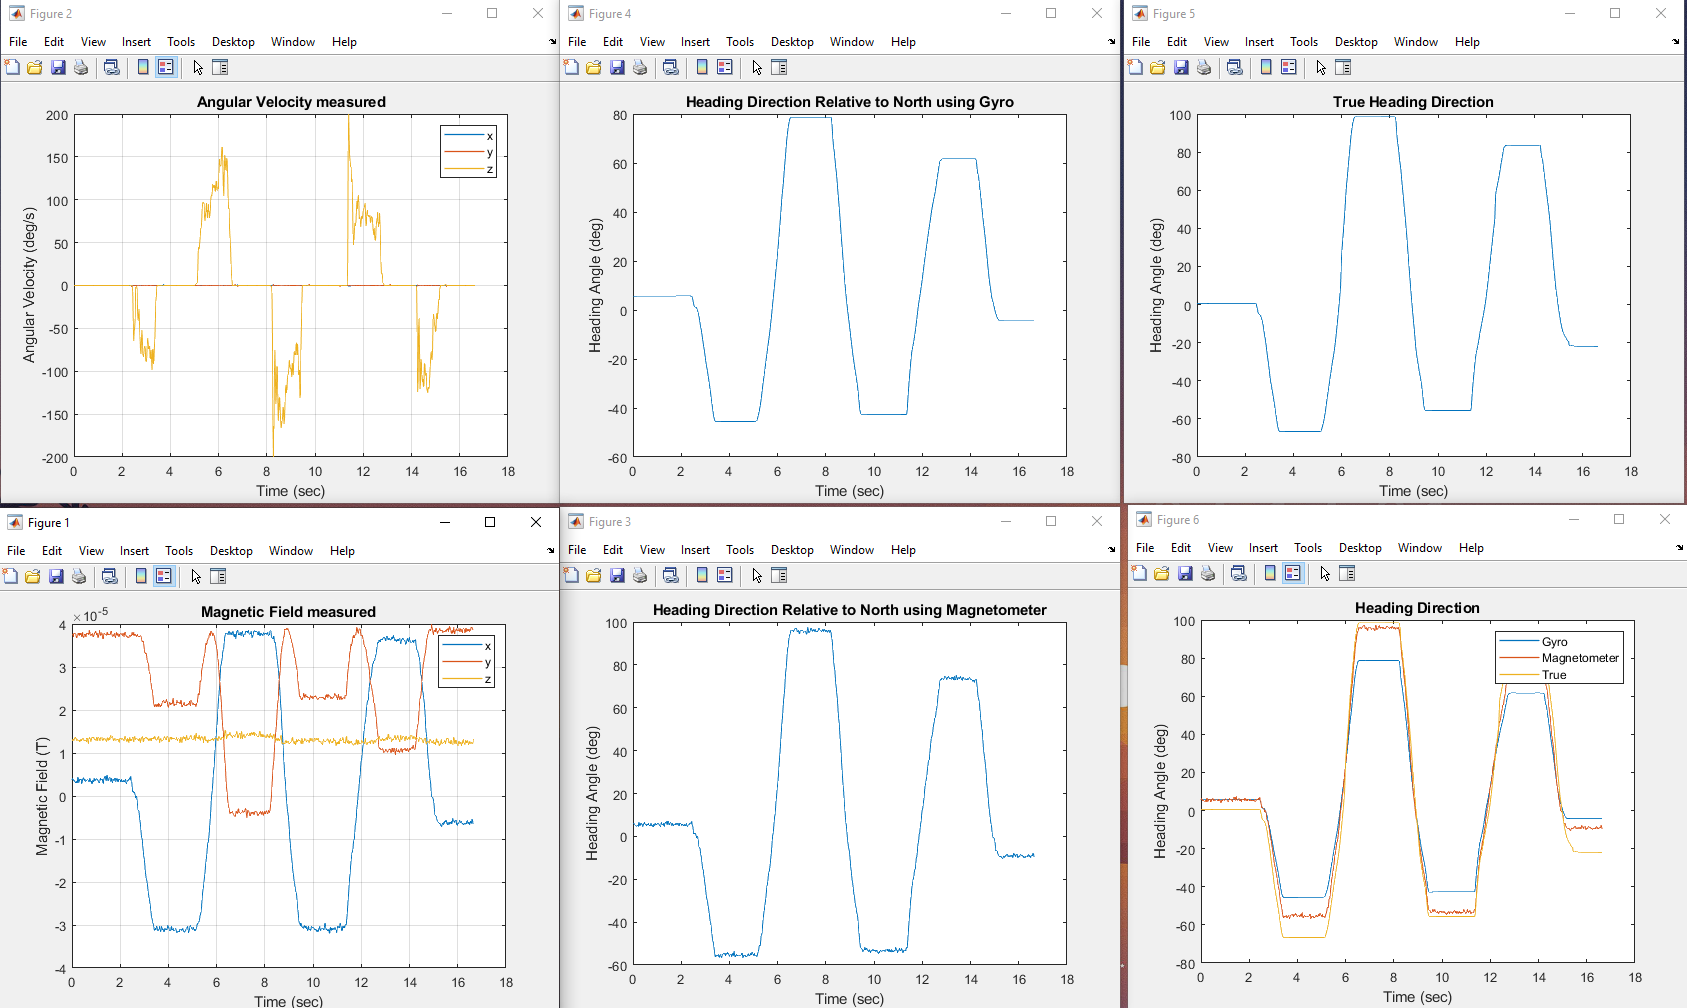
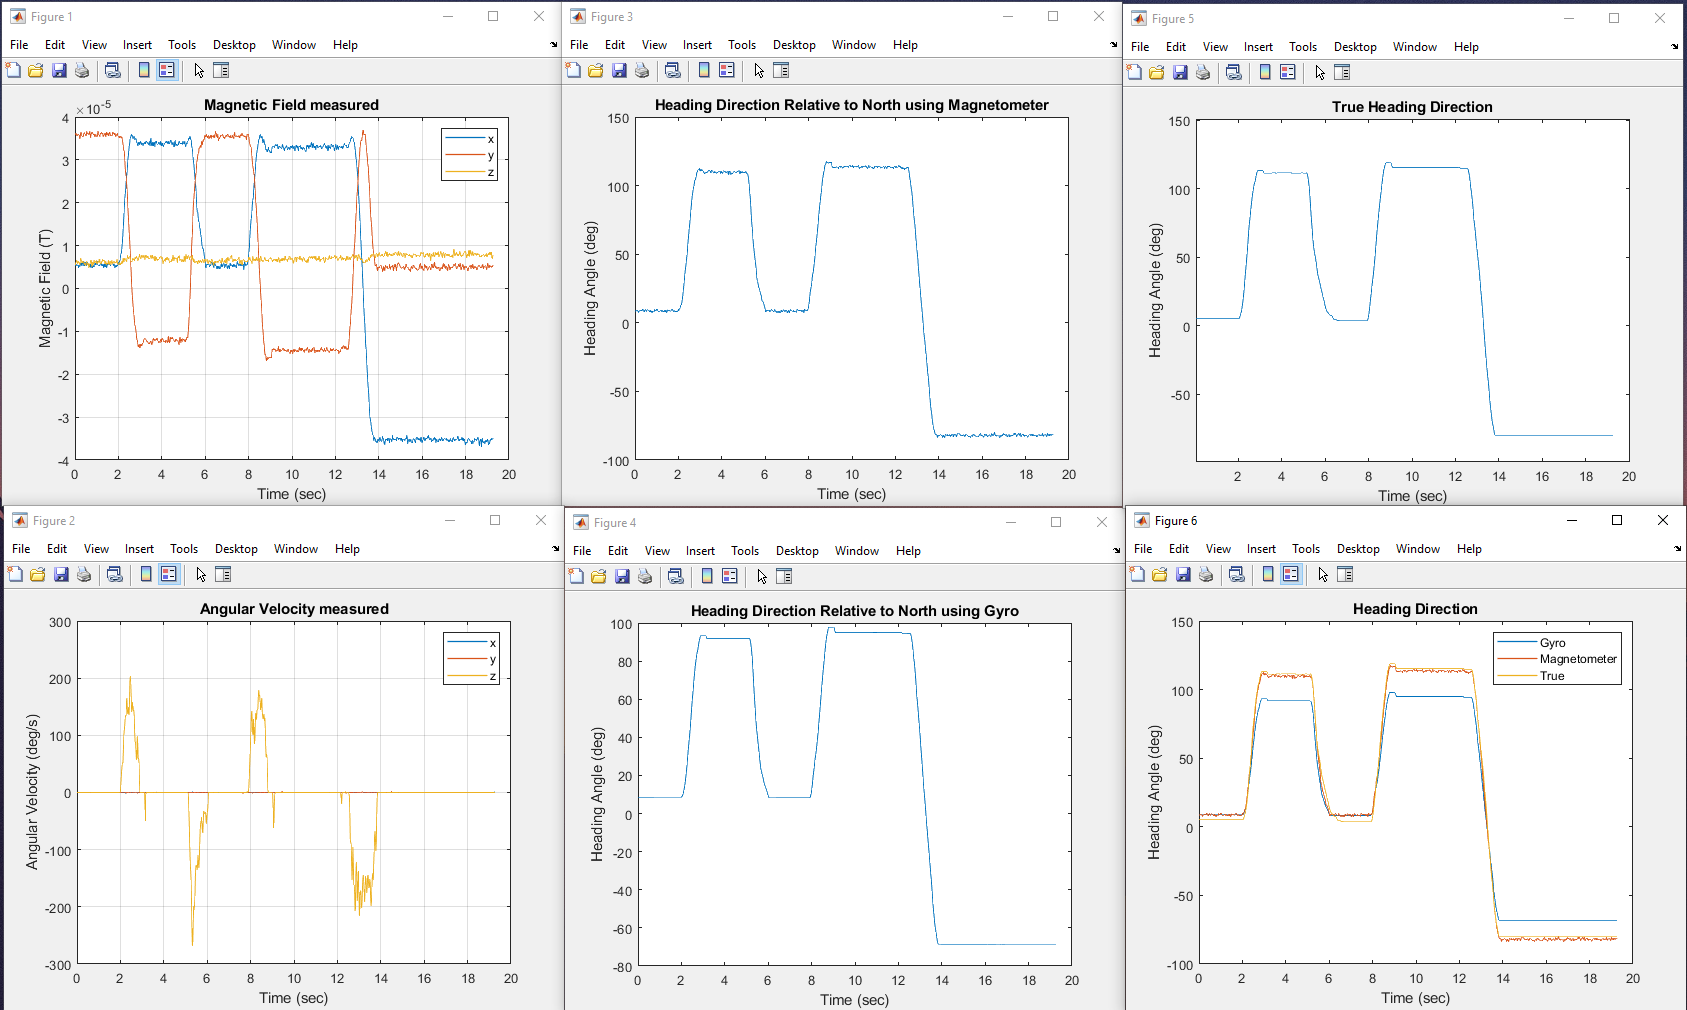
Orientation offset

diff --git a/heading_direction.m b/heading_direction.m
@@ -1,18 +1,11 @@
 clc
 clear all
 close all
-load('Data/heading_north.mat');
+load('Data/heading_testing.mat');
 
 time = MagneticField.Timestamp;
-vectorLen = length(time);
-
-Orientationx = -Orientation.X;
-Orientationx = Orientationx(1:vectorLen);
-Orientationy = Orientation.Y;
-Orientationy = Orientationy(1:vectorLen);
-Orientationz = Orientation.Z;
-Orientationz = Orientationz(1:vectorLen);
-
+vectorLen = min([length(time), length(AngularVelocity.X), ...
+    length(Orientation.X), length(MagneticField.X)]);
 
 Bx = MagneticField.X;
 By = MagneticField.Y;
@@ -30,6 +23,15 @@ BBz = B_cal(:,3);
 BBz = BBz(1:vectorLen);
 azimuth = atan2(BBx, BBy) * 180.0/pi;
 initialHeading = azimuth(1);
+
+
+Orientationx = -Orientation.X;
+Orientationx = Orientationx(1:vectorLen);
+Orientationy = Orientation.Y;
+Orientationy = Orientationy(1:vectorLen);
+Orientationz = Orientation.Z;
+Orientationz = Orientationz(1:vectorLen);
+Orientationx = Orientationx + initialHeading;
 
 Wx = AngularVelocity.X;
 Wx = Wx(1:vectorLen);
@@ -53,15 +55,15 @@ for i=1:length(time)
         t(i) = double(second(time(i)))-initial_sec;
     end
 end
-
+t = t(1:vectorLen);
 
 
 fig1 = figure();
-plot(t,B_cal(:,1), 'LineWidth', 1)
+plot(t,BBx, 'LineWidth', 1)
 hold on
 grid on
-plot(t,B_cal(:,2), 'LineWidth', 1)
-plot(t,B_cal(:,3), 'LineWidth', 1)
+plot(t,BBy, 'LineWidth', 1)
+plot(t,BBz, 'LineWidth', 1)
 xlabel('Time (sec)');
 ylabel('Magnetic Field (T)');
 legend('x','y','z');
